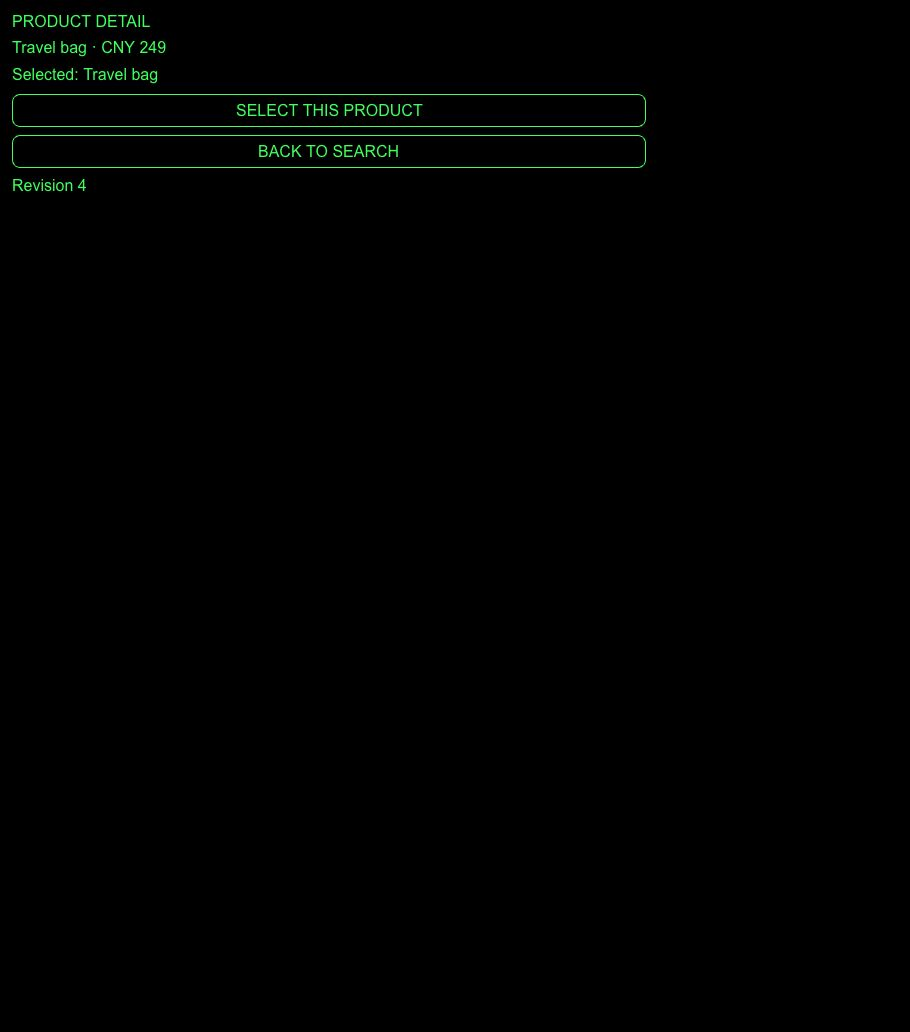
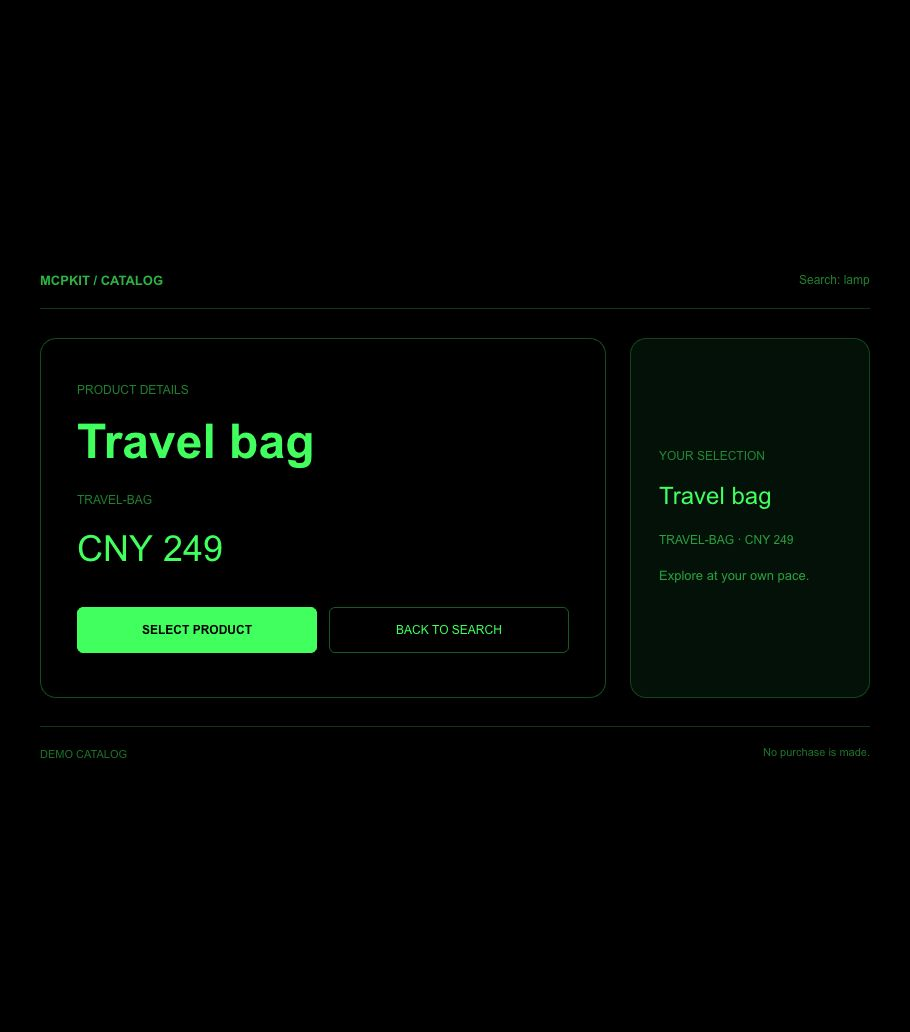
runtime: adapt shared App to fullscreen
Use a centered catalog workspace with separate product and selection
panels in expanded views. Stack panels and controls on narrow screens,
keep short and inline views compact, and refresh desktop screenshots.

Measure the host viewport instead of the canvas width pinned by Ink so
resizing can update the rendering surface. Exercise display changes at
four viewport sizes while preserving shared App state.

diff --git a/src/runtime/view.ts b/src/runtime/view.ts
@@ -129,7 +129,9 @@ function applyMode(actual: string) {
 function resize() {
   if (!view) return;
   const box = canvas.getBoundingClientRect();
-  const width = Math.max(1, Math.round(box.width));
+  // Ink pins the canvas and its parent to the last logical pixel width.
+  // Measure the host viewport, otherwise resizing keeps that old width forever.
+  const width = Math.max(1, document.documentElement.clientWidth);
   const height = Math.max(1, Math.round(box.height));
   if (width !== lastWidth || height !== lastHeight) {
     view.setViewport(width, height, window.devicePixelRatio || 1);
@@ -139,7 +141,9 @@ function resize() {
   if (mode === 'inline') app.sendSizeChanged({ height: Math.ceil(document.body.scrollHeight) }).catch(() => {});
 }
 
-new ResizeObserver(resize).observe(canvas);
+const viewportObserver = new ResizeObserver(resize);
+viewportObserver.observe(canvas);
+viewportObserver.observe(document.documentElement);
 window.addEventListener('resize', resize);
 app.onhostcontextchanged = (context) => {
   hostProvider.contextChanged(context);

diff --git a/examples/business/app.js b/examples/business/app.js
@@ -14,7 +14,8 @@ export default {
     this.catalogPage?.setData({ query: state.query, candidates: state.candidates,
       selectedName: state.selected ? state.selected.name : 'None',
       detailName: state.detail ? state.detail.name : '', detailPrice: state.detail ? state.detail.unitPrice : 0,
-      status: 'Revision ' + state.revision });
+      detailSku: state.detail ? state.detail.sku : '', selectedSku: state.selected ? state.selected.sku : '',
+      selectedPrice: state.selected ? state.selected.unitPrice : 0, empty: state.candidates.length === 0, status: '' });
   },
   apply(tool, data, input) {
     if (tool === 'search_catalog' && Array.isArray(data.candidates)) {

diff --git a/docs/validation/shared-agent-2026-10-28.md b/docs/validation/shared-agent-2026-10-28.md
@@ -75,8 +75,22 @@ The other simultaneous catalog stayed on `travel`, revision 1, with both origina
 
 The user manually expanded cards. The model performed the business operations through document-bound tools. Native Codex window automation was rejected by the computer-use tool, so no native button automation was used. Desktop screenshots capture the full visible App document; the backend does not support cropped captures.
 
-![Real desktop: detail and bag selection survive lamp search](../assets/shared-agent-desktop-detail.png)
+![Initial desktop layout before fullscreen adaptation](../assets/shared-agent-desktop-detail-before.png)
 
 ![Other desktop instance remains unselected on travel](../assets/shared-agent-desktop-isolated.png)
 
 No purchase was made. No issue was closed and no GitHub changes were published during this acceptance step.
+
+## Fullscreen layout follow-up
+
+The shared catalog now uses a centered, bounded-width workspace in `_blank` mode. Wide views show product details and selection side by side; narrow views stack the panels and buttons. Short views use a condensed layout, and inline cards keep compact product tiles. Internal revision counters remain available through `catalog_state` without appearing in the product UI.
+
+The viewport test also uncovered a runtime sizing problem: Ink writes pixel widths onto the canvas and its parent. Measuring that canvas again retained its old width when the host grew or shrank. The View now measures the document viewport width and observes it, allowing `setViewport` to update the canvas. The regression checks actual canvas widths and preserved App state while switching between inline and fullscreen at **900×1034, 1280×800, 360×700 and 480×352**, on detail, filtered search and the full three-product catalog.
+
+The user expanded the updated card in the real desktop. Document-bound tools read instance `catalog-wim4ivenp2f`, inspected and selected `TRAVEL-BAG`, then searched `lamp`. The final model-readable state retained that instance ID, the detail route, the bag detail and selection, and contained only the lamp search result (revision 5). The refreshed screenshot below was captured from that actual desktop App; it is not the browser-harness image. The original desktop screenshot is retained above for comparison.
+
+![Adapted real desktop fullscreen layout](../assets/shared-agent-desktop-detail.png)
+
+The narrow-layout screenshot below comes from the real Ink WASM browser harness at 360×700:
+
+![Narrow fullscreen layout](../assets/shared-agent-detail-narrow.png)

diff --git a/docs/guides/shared-agent.md b/docs/guides/shared-agent.md
@@ -4,7 +4,7 @@ English | [简体中文](shared-agent.zh-CN.md) · [Documentation index](../READ
 
 Business Demo includes a shared catalog with search, product details and selection. Worker actions query and validate demo products; App actions update the original live UI. No purchase is made and no example-specific MCP server is needed.
 
-![Search updated while preserving the selected bag](../assets/shared-agent-search.png)
+![Fullscreen catalog with the selected bag preserved](../assets/shared-agent-desktop-detail.png)
 
 ## Register the UI independently
 
@@ -43,6 +43,8 @@ These are `ModelContext.defineAction()` methods in [app.js](../../examples/busin
 When the host sends a subsequent input/result to an existing shared View, MCPKit delivers the result with `tool` and `input` fields and preserves the bundle, navigation stack and App actions. Ordinary page tools retain their existing relaunch behavior. Shared Views ignore results for other application routes. Host result notifications have no invocation ID: overlapping host notifications with identical arguments cannot be correlated reliably. Use live App actions for concurrent updates; the example ignores stale search completions.
 
 When a host exposes browser WebMCP, the View also projects its live Ink registry into `document.modelContext` (or the legacy navigator registry). A browser agent can discover and call these same instance-bound Actions through WebMCP. Registrations follow tool changes and teardown; unchanged App tools survive Page navigation. Hosts without this browser API keep the MCP Apps route. Neither route duplicates Worker/business implementations.
+
+The catalog has a dedicated `_blank` layout: a centered workspace with larger product details and a separate selection summary. Narrow viewports stack the panels and actions, while short viewports use compact controls. The inline card keeps a compact product grid. Switching display mode or resizing preserves App state.
 
 ## Ownership and isolation
 

diff --git a/docs/guides/shared-agent.zh-CN.md b/docs/guides/shared-agent.zh-CN.md
@@ -4,7 +4,7 @@
 
 Business Demo 提供搜索、商品详情和选择共享目录。Worker Action 查询并校验演示商品，App Action 更新原有的实时界面。不购买商品，无需示例专用 MCP server。
 
-![更新搜索后仍保留已选的包](../assets/shared-agent-search.png)
+![全屏目录保留已选的包](../assets/shared-agent-desktop-detail.png)
 
 ## 独立注册 UI
 
@@ -43,6 +43,8 @@ node scripts/update-examples.mjs --example business
 宿主将后续输入和结果投递到同一个共享 View 时，MCPKit 保留 bundle、导航栈及 App Action，并通过含 `tool`、`input` 的结果事件投递数据。普通页面工具仍使用原有重启语义。共享 View 忽略其他 App 路由的结果。宿主结果通知没有调用编号，无法可靠区分参数相同的重叠通知；并发更新应使用实时 App Action，示例会忽略较早搜索的迟到结果。
 
 宿主提供浏览器 WebMCP 时，View 也会将实时 Ink 注册表投影到 `document.modelContext`（或旧版 navigator 注册表），浏览器 Agent 因而可以发现并调用同一实例的 Action。注册随工具变化及销毁撤销，未变化的 App 工具在页面导航时保持可用。不支持浏览器 API 的宿主保留 MCP Apps 路由，两种路径都不复制 Worker 或业务实现。
+
+目录通过 `_blank` 样式适配展开后的空间：内容居中，放大商品信息，并独立展示选择摘要。窄视口改为纵向面板及操作，较矮视口使用紧凑布局，内嵌卡片保留紧凑商品网格。切换模式或调整尺寸不重置 App 状态。
 
 ## 状态归属与隔离
 
